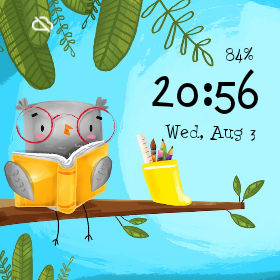
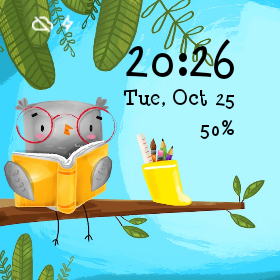
chore: updated screenshots for watch faces and changed to version 2.1.1

Changed region(s): [[0.4286, 0.1429, 0.9429, 0.5143], [0.2286, 0.0571, 0.2571, 0.1143]]

diff --git a/README.md b/README.md
@@ -15,8 +15,8 @@ Book Dash is an Android App for the NPO where you can download books in differen
 <img src="art/booklisting.jpg" alt="phone image" width="200px" />
 <img src="art/bookdetail.jpg" alt="phone image" width="200px" />
 <img src="art/reading_book.jpg" alt="phone image" width="400px" />
-<img src="art/owl_square.png" alt="phone image" width="200px" />
-<img src="art/fox_watch_face.png" alt="phone image" height="200px" />
+<img src="art/owl_round.png" alt="phone image" width="200px" />
+<img src="art/fox_square.png" alt="phone image" height="200px" />
 
 
 # What does this app do?
